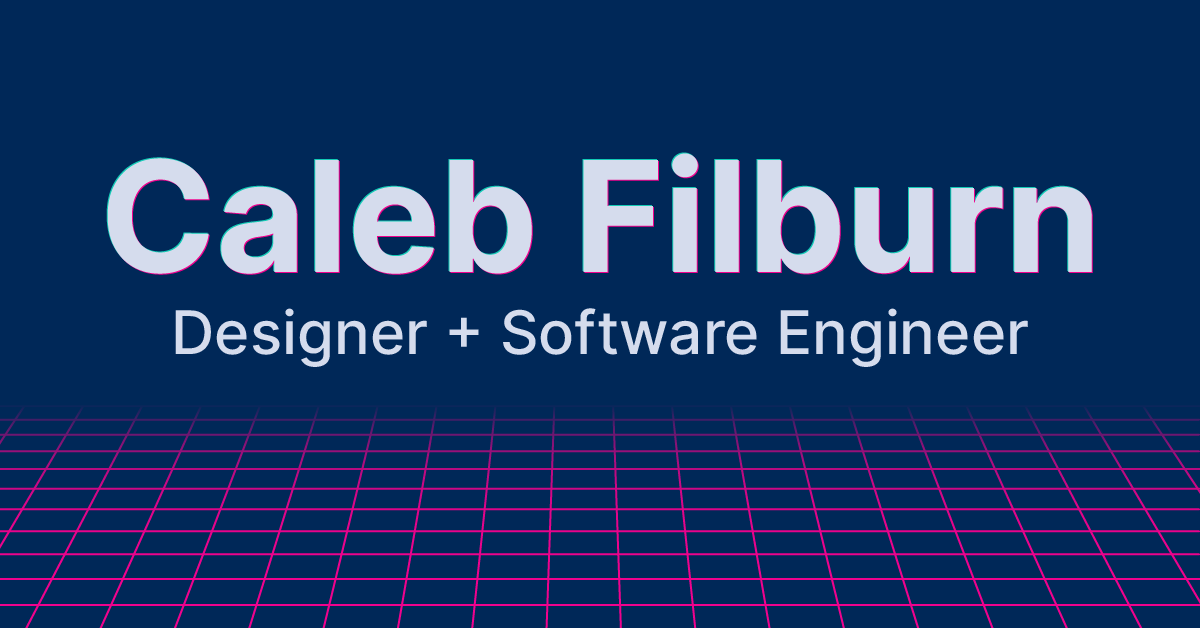
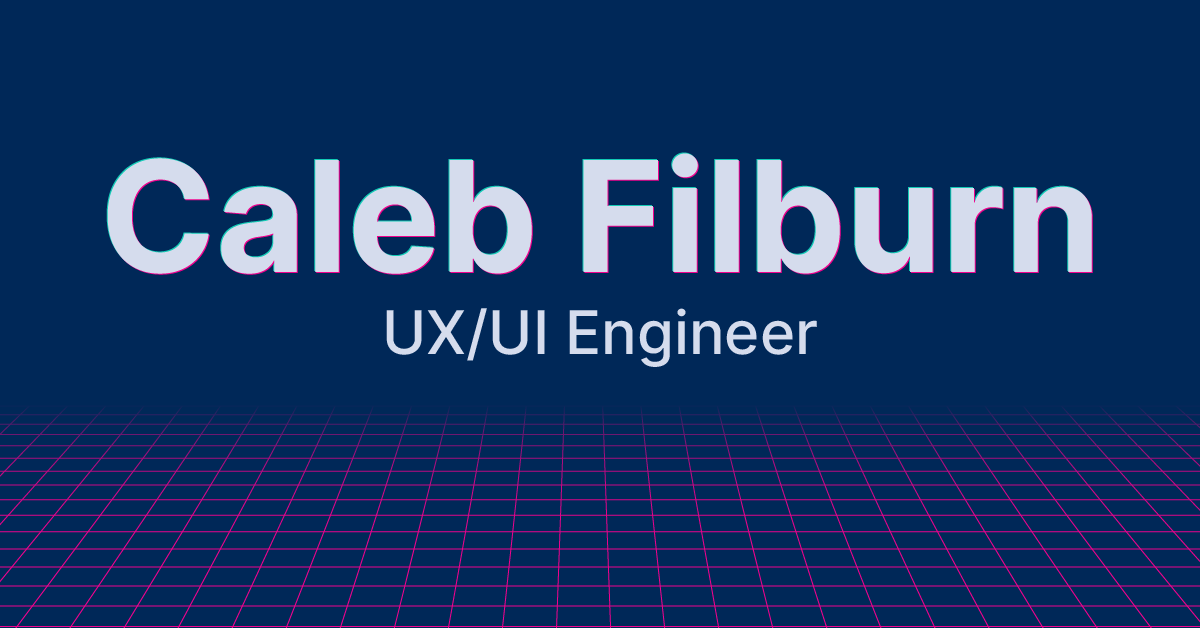
Add personal website project, update Header.title

Changed region(s): [[0.0, 0.6656, 1.0, 1.0], [0.1233, 0.4841, 0.8633, 0.6051]]

diff --git a/src/routes/+page.svelte b/src/routes/+page.svelte
@@ -3,6 +3,7 @@
 	import Listing from '$components/Listing.svelte';
 	import cmmi from '$lib/images/cmmi-design-thumb.png';
 	import isaca from '$lib/images/isaca-design-thumb.png';
+	import cf from '$lib/images/cf-thumb.png';
 	import meta from '$lib/images/cf-meta-img.png';
 	import resume from '$lib/docs/filburn-resume-2023.pdf';
 	import SectionLink from '$components/SectionLink.svelte';
@@ -26,7 +27,7 @@
 
 <Header
 name="Caleb Filburn"
-title="Designer + Software Engineer"
+title="UX/UI Engineer"
 description="I’m a digital product expert who loves design, development, and empowering collaborative teams to craft exceptional products."
 />
 
@@ -36,7 +37,7 @@ description="I’m a digital product expert who loves design, development, and e
 		<Listing 
 			startDate="March 2020"
 			endDate="August 2023"
-			jobTitles={["Software Engineer", "UX Engineer"]}
+			jobTitles={["UX/UI Engineer", "UX Engineer", "Frontend Engineer"]}
 			company="ISACA"
 			description={["Wrote code to create design system components. Delivered high-quality production code for B2C enterprise software applications. Led qualitative and quantitative usability testing. Facilitated meetings, mentored new hires, and presented projects and findings to stakeholders."]}
 			tags={["React", "Angular", "SCSS", ".NET", "Azure", "SQL", "UX Design", "Figma", "Sitecore", "Kentico", "Salesforce", "Scrum"]}
@@ -87,15 +88,22 @@ description="I’m a digital product expert who loves design, development, and e
 			projectTitle="ISACA Design Operations Framework"
 			description={["Design system created to enhance consistency across web properties and increase development efficiency.",
 			"Accompanying documentation includes component previews, instructions for use, and sample code snippets."]}
-			tags={["React", "TypeScript", "Node.js", "SCSS", "Jest"]}
+			tags={["React", "TypeScript", "Webpack", "Node.js", "SCSS", "Jest"]}
 		/>
 		<Listing
 		img={cmmi}
 		alt="a screenshot of the CMMI Institute design system"
 		projectTitle="CMMI Institute Design System"
 		description={["A design system created to maintain consistent visuals and functionality within internal and external web applications.",
-		"Contains over 100 artifacts, each with example code that can be used to quickly add it to a page."]}
-		tags={["React", "TypeScript", "Node.js", "SCSS", "Jest"]}
+		"Contains over 100 components, each with example code that can be used to quickly add it to a page."]}
+		tags={["React", "TypeScript", "Webpack", "Node.js", "SCSS", "Jest"]}
+		/>
+		<Listing
+			img={cf}
+			alt="a screenshot of this website; Caleb Filburn's personal website"
+			projectTitle="Personal Website"
+			description={["A website showcasing my skills and professional experience along with some projects I've worked on. A summary of my varied experience as a designer, developer, and engineer."]}
+			tags={["Svelte", "TypeScript", "Vite", "Node.js", "SCSS", "Playwright"]}
 		/>
 	</ul>
 </section>

diff --git a/src/components/Listing.svelte b/src/components/Listing.svelte
@@ -67,15 +67,19 @@
     img {
       flex: 1;
       flex-shrink: 0;
-      padding-right: 1em;
+      margin: 0 1em 0 0;
       min-width: calc(25% - 1em);
       max-width: 100%;
       height: 100%;
       overflow: auto;
 
       @media (max-width: 38rem) {
-        padding-bottom: 1em;
+        margin: 0 0 1em 0;
       }
+    }
+
+    img {
+      border: 2px solid rgb(var(--color-bg-2));
     }
 
     div {
